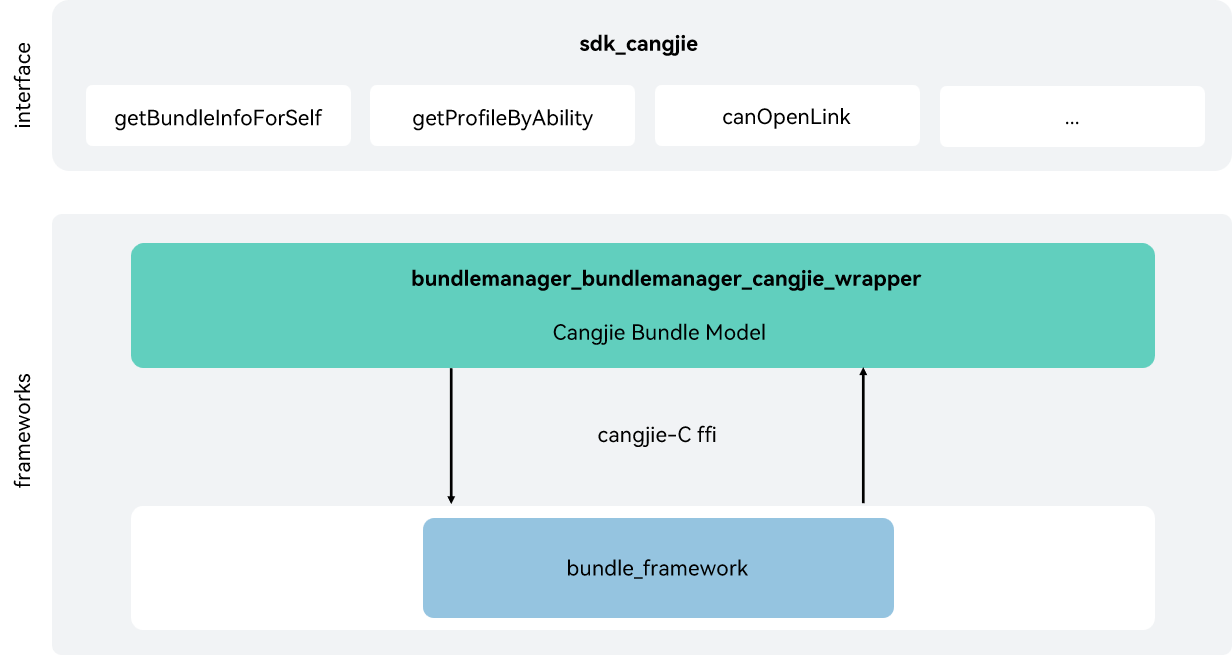
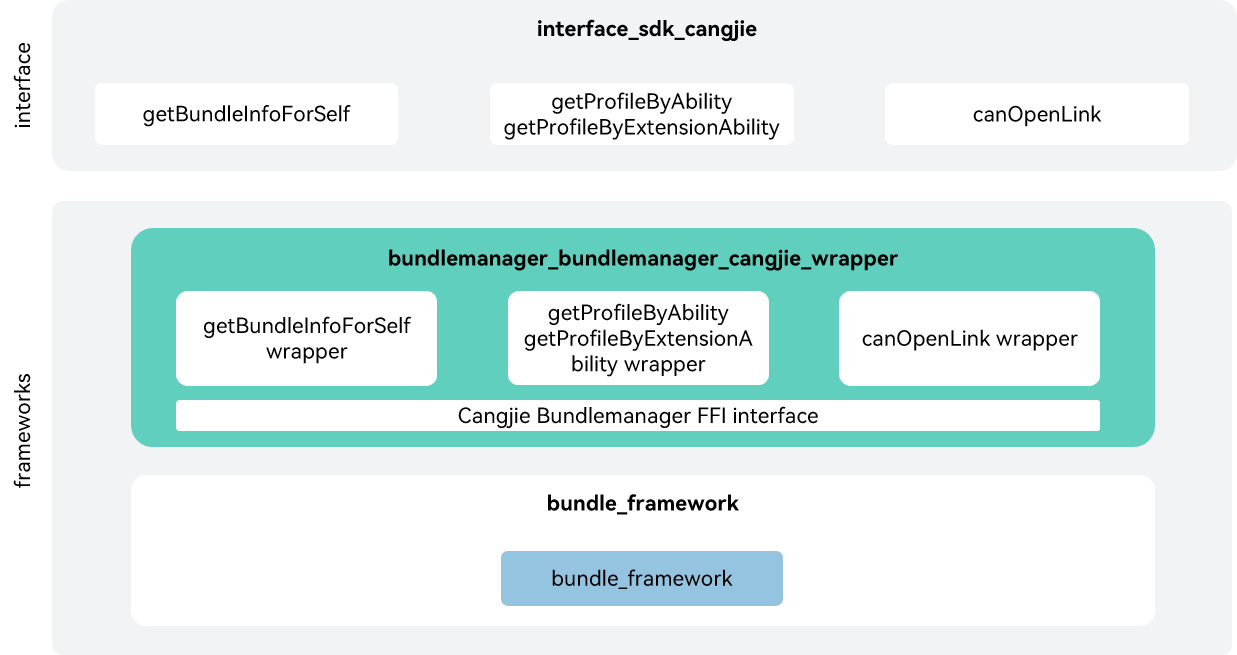
fix_readme_review

diff --git a/README.md b/README.md
@@ -2,34 +2,43 @@
 
 ## Introduction
 
-The Cangjie API is a Cangjie API encapsulated on OpenHarmony based on the capabilities of the Bundle Management subsystem. The Bundle Management subsystem allows you to query bundle information.
-
-Below is the architecture of the Bundle Management subsystem.
+The Cangjie API is a Cangjie API encapsulated on OpenHarmony based on the capabilities of the Bundle Management subsystem. The Bundle Management subsystem allows you to query bundle information. The currently bundle manager Cangjie api only supports standard devices.
 
 ## System Architecture
 
 **Figure 1** System architecture of bundlemanager_cangjie_wrapper
 
-![](figures/bundlemanager_cangjie_wrapper_architecture_en.png)
+![System architecture of bundlemanager_cangjie_wrapper](figures/bundlemanager_cangjie_wrapper_architecture_en.png)
+
+As shown in the architecture:
+
+- getBundleInfoForSelf: Obtains the bundle information.
+- getProfileByAbility  getProfileByExtensionAbility: Obtains the JSON string array of the current application's configuration.
+- canOpenLink: Checks whether a link can be opened.
+- Cangjie Bundlemanager FFI interface: Based on cross-language interoperability via C interfaces to implement bundlemanager Cangjie API.
+- bundle_framework: It is responsible for providing basic functions of bundlemanager, and encapsulates C interfaces to provide interoperability for Cangjie.
 
 ## Directory Structure
 
 ```
 foundation/bundlemanager/bundlemanager_cangjie_wrapper
-├── ohos                        # Cangjie Bundle Management code
-├── figures                     # architecture pictures
+├── figures           # architecture pictures
+└── ohos              # Cangjie Bundle Management code
+    ├── bundle        # Cangjie bundle code
+    ├── element_name  # Cangjie ElementName code
+    ├── metadata      # Cangjie Metadata code
+    └── skill         # Cangjie Skill code
 ```
 
-## Constraints
-
-The currently open bundle manager Cangjie api only supports standard devices.
 
 ## Usage Guidelines
 
 The following features are provided:
 
-  - The module provides APIs for obtaining this application information, including bundle information, application information, ability information and ExtensionAbility information.
+  - The module provides APIs for obtaining this application information.
+  - Obtains the json string array of the current application's configuration file.
   - Checks whether a link can be opened.
+
 
 The following features are not provided yet:
 
@@ -38,6 +47,7 @@ The following features are not provided yet:
   - Update capabilities for application bundles.
   - Uninstall capabilities for application bundles.
   - Store bundle information.
+
 
 For Bundlemanager-related APIs, please refer to [ohos.bundle.bundle_manager (BundleManager Management)](https://gitcode.com/openharmony-sig/arkcompiler_cangjie_ark_interop/blob/master/doc/API_Reference/source_en/apis/AbilityKit/cj-apis-bundle_manager.md). For relevant guidance, please refer to [Ability Kit Guide](https://gitcode.com/openharmony-sig/arkcompiler_cangjie_ark_interop/tree/master/doc/Dev_Guide/source_en/application-models).
 
@@ -48,3 +58,11 @@ Developers are welcome to contribute code, documentation, etc. For specific cont
 ## Repositories Involved
 
 [bundlemanager_bundle_framework](https://gitee.com/openharmony/bundlemanager_bundle_framework)
+
+[arkcompiler_cangjie_ark_interop](https://gitcode.com/openharmony-sig/arkcompiler_cangjie_ark_interop)
+
+[global_global_cangjie_wrapper](https://gitcode.com/openharmony-sig/global_global_cangjie_wrapper)
+
+[arkui_arkui_cangjie_wrapper](https://gitcode.com/openharmony-sig/arkui_arkui_cangjie_wrapper)
+
+[hiviewdfx_hiviewdfx_cangjie_wrapper](https://gitcode.com/openharmony-sig/hiviewdfx_hiviewdfx_cangjie_wrapper)

diff --git a/README_zh.md b/README_zh.md
@@ -2,32 +2,42 @@
 
 ## 简介
 
-包管理仓颉接口是在 OpenHarmony 上基于包管理子系统能力之上封装的仓颉API。包管理子系统负责应用安装包的管理，提供安装包的信息查询能力。
+包管理仓颉接口是在OpenHarmony上基于包管理子系统能力之上封装的仓颉API。包管理子系统负责应用安装包的管理，提供安装包的信息查询能力。当前开放的包管理仓颉接口仅支持standard设备。
 
 ## 系统架构
 
 **图 1** 包管理仓颉架构图
 
-![](figures/bundlemanager_cangjie_wrapper_architecture.png)
+![包管理仓颉架构图](figures/bundlemanager_cangjie_wrapper_architecture.png)
+
+如架构图所示：
+
+- 获取当前应用包信息：提供当前应用包信息的查询能力。
+- 获取自身配置文件字符串：提供UIAbility组件信息、ExtensionAbility组件信息的查询能力，返回json格式字符串。
+- 查询链接是否可以打开：提供查询给定的链接是否可以打开的能力。
+- 仓颉包管理FFI接口定义：负责定义C互操作仓颉接口，用于实现仓颉包管理能力。
+- 包管理基础框架模块：负责提供包管理基础功能，封装C接口提供给仓颉进行互操作。
 
 ## 目录
 
 ```
 foundation/bundlemanager/bundlemanager_cangjie_wrapper
-├── ohos                        # 仓颉包管理接口实现
-├── figures                     # 存放readme中的架构图
+├── figures               # 存放README中的架构图
+└── ohos                  # 仓颉包管理接口实现
+    ├── bundle            # 仓颉bundle接口实现
+    ├── element_name      # 仓颉ElementName接口实现
+    ├── metadata          # 仓颉Metadata接口实现
+    └── skill             # 仓颉Skill接口实现
 ```
-
-## 约束
-
-当前开放的包管理仓颉接口仅支持standard设备。
 
 ## 使用说明
 
-如架构图所示，包管理仓颉接口以下功能接口，开发者可以根据使用诉求使用：
+包管理仓颉接口提供以下功能，开发者可以根据使用诉求使用：
 
-  - 包管理模块提供当前应用信息的查询能力，支持应用包信息、应用程序信息、UIAbility组件信息、ExtensionAbility组件信息等信息的查询。
-  - 查询给定的链接是否可以打开。
+  - 提供当前应用包信息的查询能力。
+  - 提供自身相应配置文件的json格式字符串的获取能力。
+  - 提供给定的链接是否可以打开的查询能力。
+
 
 与ArkTS相比，暂不支持以下功能：
 
@@ -36,6 +46,7 @@ foundation/bundlemanager/bundlemanager_cangjie_wrapper
   - 暂不支持安装包的更新能力。
   - 暂不支持安装包的卸载能力。
   - 暂不支持包信息存储能力。
+
 
 包管理相关API请参见[ohos.bundle.bundle_manager（bundleManager管理）](https://gitcode.com/openharmony-sig/arkcompiler_cangjie_ark_interop/blob/master/doc/API_Reference/source_zh_cn/apis/AbilityKit/cj-apis-bundle_manager.md)，相关指导请参见[程序框架服务开发指南](https://gitcode.com/openharmony-sig/arkcompiler_cangjie_ark_interop/tree/master/doc/Dev_Guide/source_zh_cn/application-models)。
 
@@ -46,3 +57,11 @@ foundation/bundlemanager/bundlemanager_cangjie_wrapper
 ## 相关仓
 
 [bundlemanager_bundle_framework](https://gitee.com/openharmony/bundlemanager_bundle_framework)
+
+[arkcompiler_cangjie_ark_interop](https://gitcode.com/openharmony-sig/arkcompiler_cangjie_ark_interop)
+
+[global_global_cangjie_wrapper](https://gitcode.com/openharmony-sig/global_global_cangjie_wrapper)
+
+[arkui_arkui_cangjie_wrapper](https://gitcode.com/openharmony-sig/arkui_arkui_cangjie_wrapper)
+
+[hiviewdfx_hiviewdfx_cangjie_wrapper](https://gitcode.com/openharmony-sig/hiviewdfx_hiviewdfx_cangjie_wrapper)
